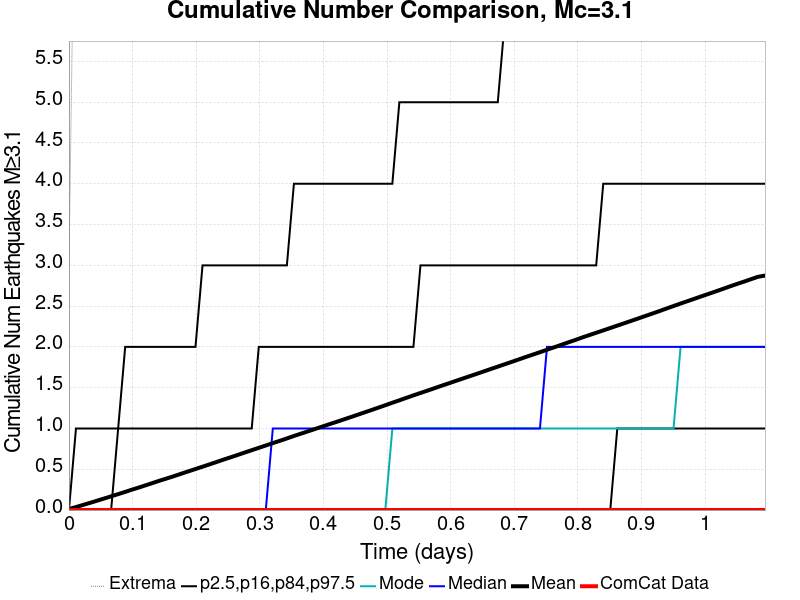
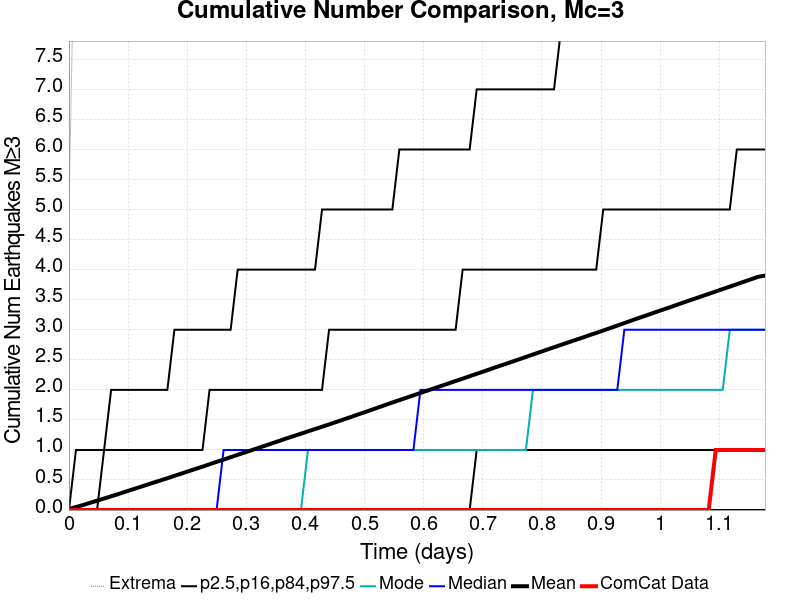
automatic plot and index update from opensha.usc.edu

diff --git a/2019_08_03-ComCatM7p1_ci38457511_28DaysAfter_ShakeMapSurfaces-noSpont-full_td-scale1.14/index.html b/2019_08_03-ComCatM7p1_ci38457511_28DaysAfter_ShakeMapSurfaces-noSpont-full_td-scale1.14/index.html
@@ -751,7 +751,7 @@ img {
 </table>
 <h2 id="comcat-data-comparisons">ComCat Data Comparisons</h2>
 <p><em><a href="#table-of-contents">(top)</a></em></p>
-<p>These plots compare simulated sequences with data from ComCat. All plots only consider events with hypocenters inside the ComCat region defined in the JSON input file, and consider ruptures above Mc=3.1</p>
+<p>These plots compare simulated sequences with data from ComCat. All plots only consider events with hypocenters inside the ComCat region defined in the JSON input file, and consider ruptures above Mc=3.0</p>
 <h3 id="comcat-magnitude-number-distribution">ComCat Magnitude-Number Distribution</h3>
 <p><em><a href="#table-of-contents">(top)</a></em></p>
 <p><img src="plots/comcat_compare_mag_num.png" alt="MND" /></p>
@@ -762,25 +762,25 @@ img {
 <p><em><a href="#table-of-contents">(top)</a></em></p>
 <table>
 <thead>
-<tr><th></th><th>1 Day</th><th>1.1 Day</th></tr>
+<tr><th></th><th>1 Day</th><th>1.2 Day</th></tr>
 </thead>
 <tbody>
-<tr><td><strong>M≥3.1</strong></td><td><img src="plots/comcat_compare_mean_1d_m3.1.png" alt="Map" /></td><td><img src="plots/comcat_compare_mean_1.1d_m3.1.png" alt="Map" /></td></tr>
-<tr><td><strong>M≥4</strong></td><td><img src="plots/comcat_compare_mean_1d_m4.png" alt="Map" /></td><td><img src="plots/comcat_compare_mean_1.1d_m4.png" alt="Map" /></td></tr>
-<tr><td><strong>M≥5</strong></td><td><img src="plots/comcat_compare_mean_1d_m5.png" alt="Map" /></td><td><img src="plots/comcat_compare_mean_1.1d_m5.png" alt="Map" /></td></tr>
-<tr><td><strong>M≥6</strong></td><td><img src="plots/comcat_compare_mean_1d_m6.png" alt="Map" /></td><td><img src="plots/comcat_compare_mean_1.1d_m6.png" alt="Map" /></td></tr>
-<tr><td><strong>M≥7</strong></td><td><img src="plots/comcat_compare_mean_1d_m7.png" alt="Map" /></td><td><img src="plots/comcat_compare_mean_1.1d_m7.png" alt="Map" /></td></tr>
-<tr><td><strong>M≥8</strong></td><td><img src="plots/comcat_compare_mean_1d_m8.png" alt="Map" /></td><td><img src="plots/comcat_compare_mean_1.1d_m8.png" alt="Map" /></td></tr>
+<tr><td><strong>M≥3</strong></td><td><img src="plots/comcat_compare_mean_1d_m3.png" alt="Map" /></td><td><img src="plots/comcat_compare_mean_1.2d_m3.png" alt="Map" /></td></tr>
+<tr><td><strong>M≥4</strong></td><td><img src="plots/comcat_compare_mean_1d_m4.png" alt="Map" /></td><td><img src="plots/comcat_compare_mean_1.2d_m4.png" alt="Map" /></td></tr>
+<tr><td><strong>M≥5</strong></td><td><img src="plots/comcat_compare_mean_1d_m5.png" alt="Map" /></td><td><img src="plots/comcat_compare_mean_1.2d_m5.png" alt="Map" /></td></tr>
+<tr><td><strong>M≥6</strong></td><td><img src="plots/comcat_compare_mean_1d_m6.png" alt="Map" /></td><td><img src="plots/comcat_compare_mean_1.2d_m6.png" alt="Map" /></td></tr>
+<tr><td><strong>M≥7</strong></td><td><img src="plots/comcat_compare_mean_1d_m7.png" alt="Map" /></td><td><img src="plots/comcat_compare_mean_1.2d_m7.png" alt="Map" /></td></tr>
+<tr><td><strong>M≥8</strong></td><td><img src="plots/comcat_compare_mean_1d_m8.png" alt="Map" /></td><td><img src="plots/comcat_compare_mean_1.2d_m8.png" alt="Map" /></td></tr>
 </tbody>
 </table>
 <h3 id="comcat-depth-distribution">ComCat Depth Distribution</h3>
 <p><em><a href="#table-of-contents">(top)</a></em></p>
 <table>
 <thead>
-<tr><th>M≥3.1</th><th>M≥4</th><th>M≥5</th><th>M≥6</th><th>M≥7</th><th>M≥8</th></tr>
+<tr><th>M≥3</th><th>M≥4</th><th>M≥5</th><th>M≥6</th><th>M≥7</th><th>M≥8</th></tr>
 </thead>
 <tbody>
-<tr><td><img src="plots/comcat_compare_depth_m3.1.png" alt="Depth Distribution" /></td><td><img src="plots/comcat_compare_depth_m4.png" alt="Depth Distribution" /></td><td><img src="plots/comcat_compare_depth_m5.png" alt="Depth Distribution" /></td><td><img src="plots/comcat_compare_depth_m6.png" alt="Depth Distribution" /></td><td><img src="plots/comcat_compare_depth_m7.png" alt="Depth Distribution" /></td><td><img src="plots/comcat_compare_depth_m8.png" alt="Depth Distribution" /></td></tr>
+<tr><td><img src="plots/comcat_compare_depth_m3.png" alt="Depth Distribution" /></td><td><img src="plots/comcat_compare_depth_m4.png" alt="Depth Distribution" /></td><td><img src="plots/comcat_compare_depth_m5.png" alt="Depth Distribution" /></td><td><img src="plots/comcat_compare_depth_m6.png" alt="Depth Distribution" /></td><td><img src="plots/comcat_compare_depth_m7.png" alt="Depth Distribution" /></td><td><img src="plots/comcat_compare_depth_m8.png" alt="Depth Distribution" /></td></tr>
 </tbody>
 </table>
 <h2 id="section-participation">Section Participation</h2>

diff --git a/index.html b/index.html
@@ -25,7 +25,7 @@ img {
 <tr><th>Config Date</th><th>Name</th><th>Sim Start Date</th><th># Simulations</th><th>Progress</th><th>Plot Date</th></tr>
 </thead>
 <tbody>
-<tr><td>2019/08/03</td><td><a href="2019_08_03-ComCatM7p1_ci38457511_28DaysAfter_ShakeMapSurfaces-noSpont-full_td-scale1.14/index.html">ComCat M7.1 (ci38457511), 28 Days After, ShakeMap Surfaces</a></td><td>2019/08/02</td><td>100000</td><td>Done</td><td>2019/08/03</td></tr>
+<tr><td>2019/08/03</td><td><a href="2019_08_03-ComCatM7p1_ci38457511_28DaysAfter_ShakeMapSurfaces-noSpont-full_td-scale1.14/index.html">ComCat M7.1 (ci38457511), 28 Days After, ShakeMap Surfaces</a></td><td>2019/08/02</td><td>100000</td><td>Done</td><td>2019/08/04</td></tr>
 <tr><td>2019/07/27</td><td><a href="2019_07_27-ComCatM7p1_ci38457511_21DaysAfter_ShakeMapSurfaces-noSpont-full_td-scale1.14/index.html">ComCat M7.1 (ci38457511), 21 Days After, ShakeMap Surfaces</a></td><td>2019/07/26</td><td>100000</td><td>Done</td><td>2019/08/03</td></tr>
 <tr><td>2019/07/25</td><td><a href="2019_07_25-ComCatM7p1_ci38457511_19p6DaysAfter_ShakeMapSurfaces-noSpont-full_td-scale1.14/index.html">ComCat M7.1 (ci38457511), 19.6 Days After, ShakeMap Surfaces</a></td><td>2019/07/25</td><td>100000</td><td>Done</td><td>2019/08/03</td></tr>
 <tr><td>2019/07/18</td><td><a href="2019_07_18-ComCatM7p1_ci38457511_InvertedSurface_ShakeMapSurface-noSpont-full_td-scale1.14/index.html">ComCat M7.1 (ci38457511), Inverted Surface, ShakeMap Surface</a></td><td>2019/07/05</td><td>100000</td><td>Done</td><td>2019/08/03</td></tr>

diff --git a/2019_08_03-ComCatM7p1_ci38457511_28DaysAfter_ShakeMapSurfaces-noSpont-full_td-scale1.14/README.md b/2019_08_03-ComCatM7p1_ci38457511_28DaysAfter_ShakeMapSurfaces-noSpont-full_td-scale1.14/README.md
@@ -689,7 +689,7 @@ These are map plots of individual catalogs from the simulations, selected as the
 ## ComCat Data Comparisons
 *[(top)](#table-of-contents)*
 
-These plots compare simulated sequences with data from ComCat. All plots only consider events with hypocenters inside the ComCat region defined in the JSON input file, and consider ruptures above Mc=3.1
+These plots compare simulated sequences with data from ComCat. All plots only consider events with hypocenters inside the ComCat region defined in the JSON input file, and consider ruptures above Mc=3.0
 
 ### ComCat Magnitude-Number Distribution
 *[(top)](#table-of-contents)*
@@ -704,21 +704,21 @@ These plots compare simulated sequences with data from ComCat. All plots only co
 ### ComCat Mean Spatial Distribution
 *[(top)](#table-of-contents)*
 
-|  | 1 Day | 1.1 Day |
+|  | 1 Day | 1.2 Day |
 |-----|-----|-----|
-| **M≥3.1** | ![Map](plots/comcat_compare_mean_1d_m3.1.png) | ![Map](plots/comcat_compare_mean_1.1d_m3.1.png) |
-| **M≥4** | ![Map](plots/comcat_compare_mean_1d_m4.png) | ![Map](plots/comcat_compare_mean_1.1d_m4.png) |
-| **M≥5** | ![Map](plots/comcat_compare_mean_1d_m5.png) | ![Map](plots/comcat_compare_mean_1.1d_m5.png) |
-| **M≥6** | ![Map](plots/comcat_compare_mean_1d_m6.png) | ![Map](plots/comcat_compare_mean_1.1d_m6.png) |
-| **M≥7** | ![Map](plots/comcat_compare_mean_1d_m7.png) | ![Map](plots/comcat_compare_mean_1.1d_m7.png) |
-| **M≥8** | ![Map](plots/comcat_compare_mean_1d_m8.png) | ![Map](plots/comcat_compare_mean_1.1d_m8.png) |
+| **M≥3** | ![Map](plots/comcat_compare_mean_1d_m3.png) | ![Map](plots/comcat_compare_mean_1.2d_m3.png) |
+| **M≥4** | ![Map](plots/comcat_compare_mean_1d_m4.png) | ![Map](plots/comcat_compare_mean_1.2d_m4.png) |
+| **M≥5** | ![Map](plots/comcat_compare_mean_1d_m5.png) | ![Map](plots/comcat_compare_mean_1.2d_m5.png) |
+| **M≥6** | ![Map](plots/comcat_compare_mean_1d_m6.png) | ![Map](plots/comcat_compare_mean_1.2d_m6.png) |
+| **M≥7** | ![Map](plots/comcat_compare_mean_1d_m7.png) | ![Map](plots/comcat_compare_mean_1.2d_m7.png) |
+| **M≥8** | ![Map](plots/comcat_compare_mean_1d_m8.png) | ![Map](plots/comcat_compare_mean_1.2d_m8.png) |
 
 ### ComCat Depth Distribution
 *[(top)](#table-of-contents)*
 
-| M&ge;3.1 | M&ge;4 | M&ge;5 | M&ge;6 | M&ge;7 | M&ge;8 |
+| M&ge;3 | M&ge;4 | M&ge;5 | M&ge;6 | M&ge;7 | M&ge;8 |
 |-----|-----|-----|-----|-----|-----|
-| ![Depth Distribution](plots/comcat_compare_depth_m3.1.png) | ![Depth Distribution](plots/comcat_compare_depth_m4.png) | ![Depth Distribution](plots/comcat_compare_depth_m5.png) | ![Depth Distribution](plots/comcat_compare_depth_m6.png) | ![Depth Distribution](plots/comcat_compare_depth_m7.png) | ![Depth Distribution](plots/comcat_compare_depth_m8.png) |
+| ![Depth Distribution](plots/comcat_compare_depth_m3.png) | ![Depth Distribution](plots/comcat_compare_depth_m4.png) | ![Depth Distribution](plots/comcat_compare_depth_m5.png) | ![Depth Distribution](plots/comcat_compare_depth_m6.png) | ![Depth Distribution](plots/comcat_compare_depth_m7.png) | ![Depth Distribution](plots/comcat_compare_depth_m8.png) |
 
 ## Section Participation
 *[(top)](#table-of-contents)*

diff --git a/README.md b/README.md
@@ -2,7 +2,7 @@
 
 | Config Date | Name | Sim Start Date | # Simulations | Progress | Plot Date |
 |-----|-----|-----|-----|-----|-----|
-| 2019/08/03 | [ComCat M7.1 (ci38457511), 28 Days After, ShakeMap Surfaces](2019_08_03-ComCatM7p1_ci38457511_28DaysAfter_ShakeMapSurfaces-noSpont-full_td-scale1.14/README.md) | 2019/08/02 | 100000 | Done | 2019/08/03 |
+| 2019/08/03 | [ComCat M7.1 (ci38457511), 28 Days After, ShakeMap Surfaces](2019_08_03-ComCatM7p1_ci38457511_28DaysAfter_ShakeMapSurfaces-noSpont-full_td-scale1.14/README.md) | 2019/08/02 | 100000 | Done | 2019/08/04 |
 | 2019/07/27 | [ComCat M7.1 (ci38457511), 21 Days After, ShakeMap Surfaces](2019_07_27-ComCatM7p1_ci38457511_21DaysAfter_ShakeMapSurfaces-noSpont-full_td-scale1.14/README.md) | 2019/07/26 | 100000 | Done | 2019/08/03 |
 | 2019/07/25 | [ComCat M7.1 (ci38457511), 19.6 Days After, ShakeMap Surfaces](2019_07_25-ComCatM7p1_ci38457511_19p6DaysAfter_ShakeMapSurfaces-noSpont-full_td-scale1.14/README.md) | 2019/07/25 | 100000 | Done | 2019/08/03 |
 | 2019/07/18 | [ComCat M7.1 (ci38457511), Inverted Surface, ShakeMap Surface](2019_07_18-ComCatM7p1_ci38457511_InvertedSurface_ShakeMapSurface-noSpont-full_td-scale1.14/README.md) | 2019/07/05 | 100000 | Done | 2019/08/03 |
